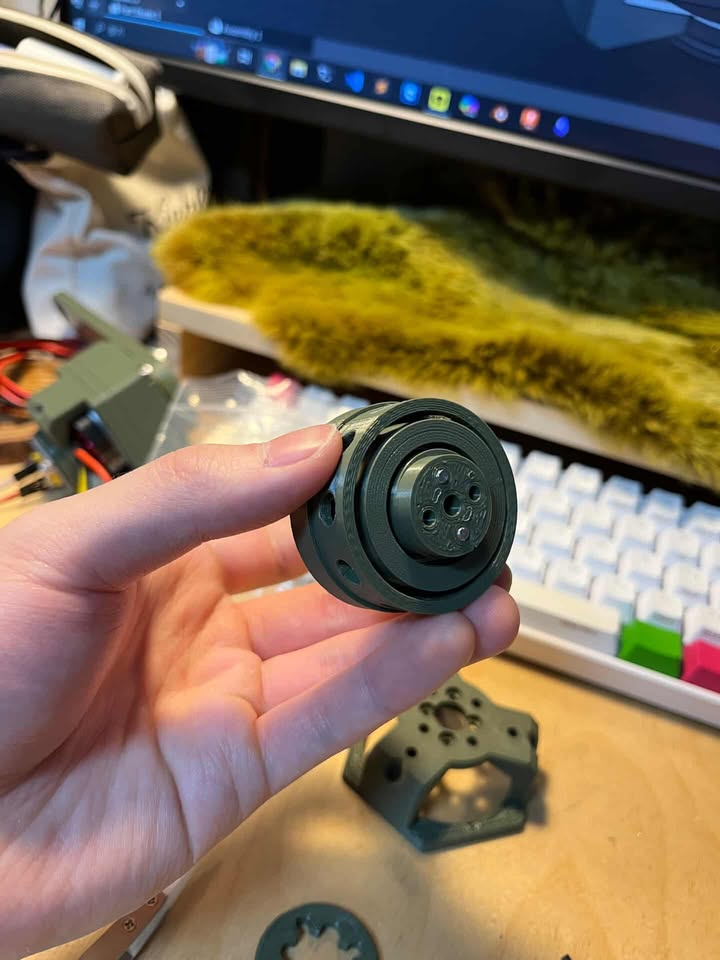
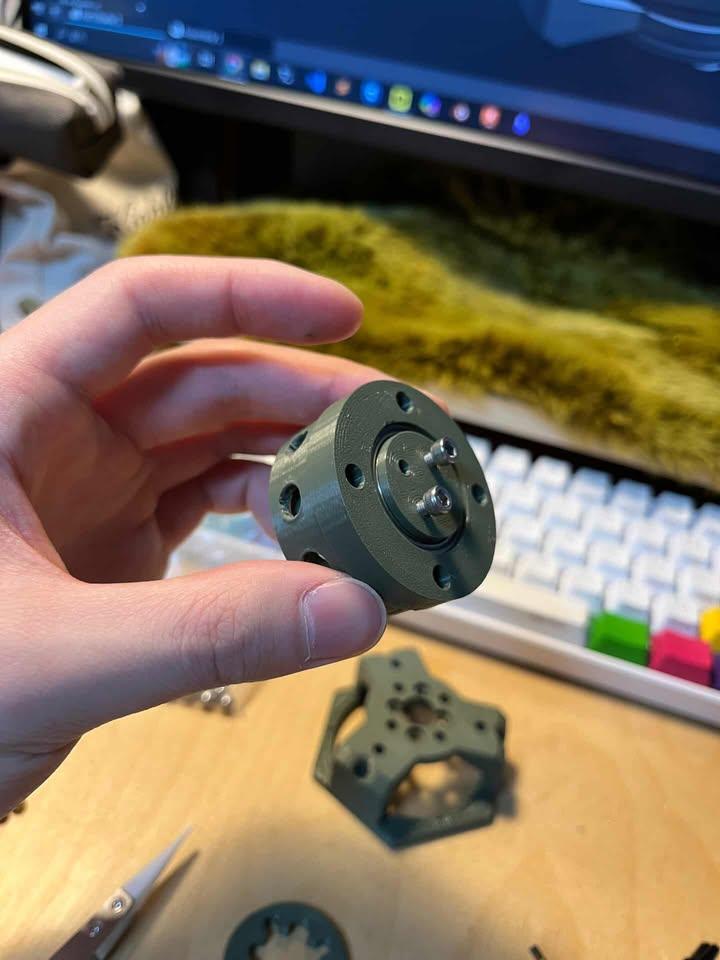
Update:slider imgs

diff --git a/_posts/2025-03-12-robotic-proprioceptive-actautors-3types.md b/_posts/2025-03-12-robotic-proprioceptive-actautors-3types.md
@@ -33,11 +33,6 @@ toc:
 
 you can see more specific code at [simplefoc documents](https://docs.simplefoc.com/code)
 
-<swiper-container keyboard="true" navigation="true" pagination="true" pagination-clickable="true">
-  <swiper-slide><img src="{{ '/assets/img/actuator-v1/img1.png' | relative_url }}" /></swiper-slide>
-  <swiper-slide><img src="{{ '/assets/img/actuator-v1/img2.png' | relative_url }}" /></swiper-slide>
-  <swiper-slide><img src="{{ '/assets/img/actuator-v1/img3.png' | relative_url }}" /></swiper-slide>
-</swiper-container>
 
 <swiper-container keyboard="true" navigation="true" pagination="true" pagination-clickable="true" pagination-dynamic-bullets="true" rewind="true">
   <swiper-slide>{% include figure.liquid loading="eager" path="assets/img/actuator-v1/img1.png" class="img-fluid rounded z-depth-1" %}</swiper-slide>
@@ -45,6 +40,9 @@ you can see more specific code at [simplefoc documents](https://docs.simplefoc.c
   <swiper-slide>{% include figure.liquid loading="eager" path="assets/img/actuator-v1/img3.png" class="img-fluid rounded z-depth-1" %}</swiper-slide>
   <swiper-slide>{% include figure.liquid loading="eager" path="assets/img/actuator-v1/img4.png" class="img-fluid rounded z-depth-1" %}</swiper-slide>
   <swiper-slide>{% include figure.liquid loading="eager" path="assets/img/actuator-v1/img5.png" class="img-fluid rounded z-depth-1" %}</swiper-slide>
+  <swiper-slide>{% include figure.liquid loading="eager" path="assets/img/actuator-v1/img7.png" class="img-fluid rounded z-depth-1" %}</swiper-slide>
+  <swiper-slide>{% include figure.liquid loading="eager" path="assets/img/actuator-v1/img8.png" class="img-fluid rounded z-depth-1" %}</swiper-slide>
+  <swiper-slide>{% include figure.liquid loading="eager" path="assets/img/actuator-v1/img6.png" class="img-fluid rounded z-depth-1" %}</swiper-slide>
 </swiper-container>
 
 ---
